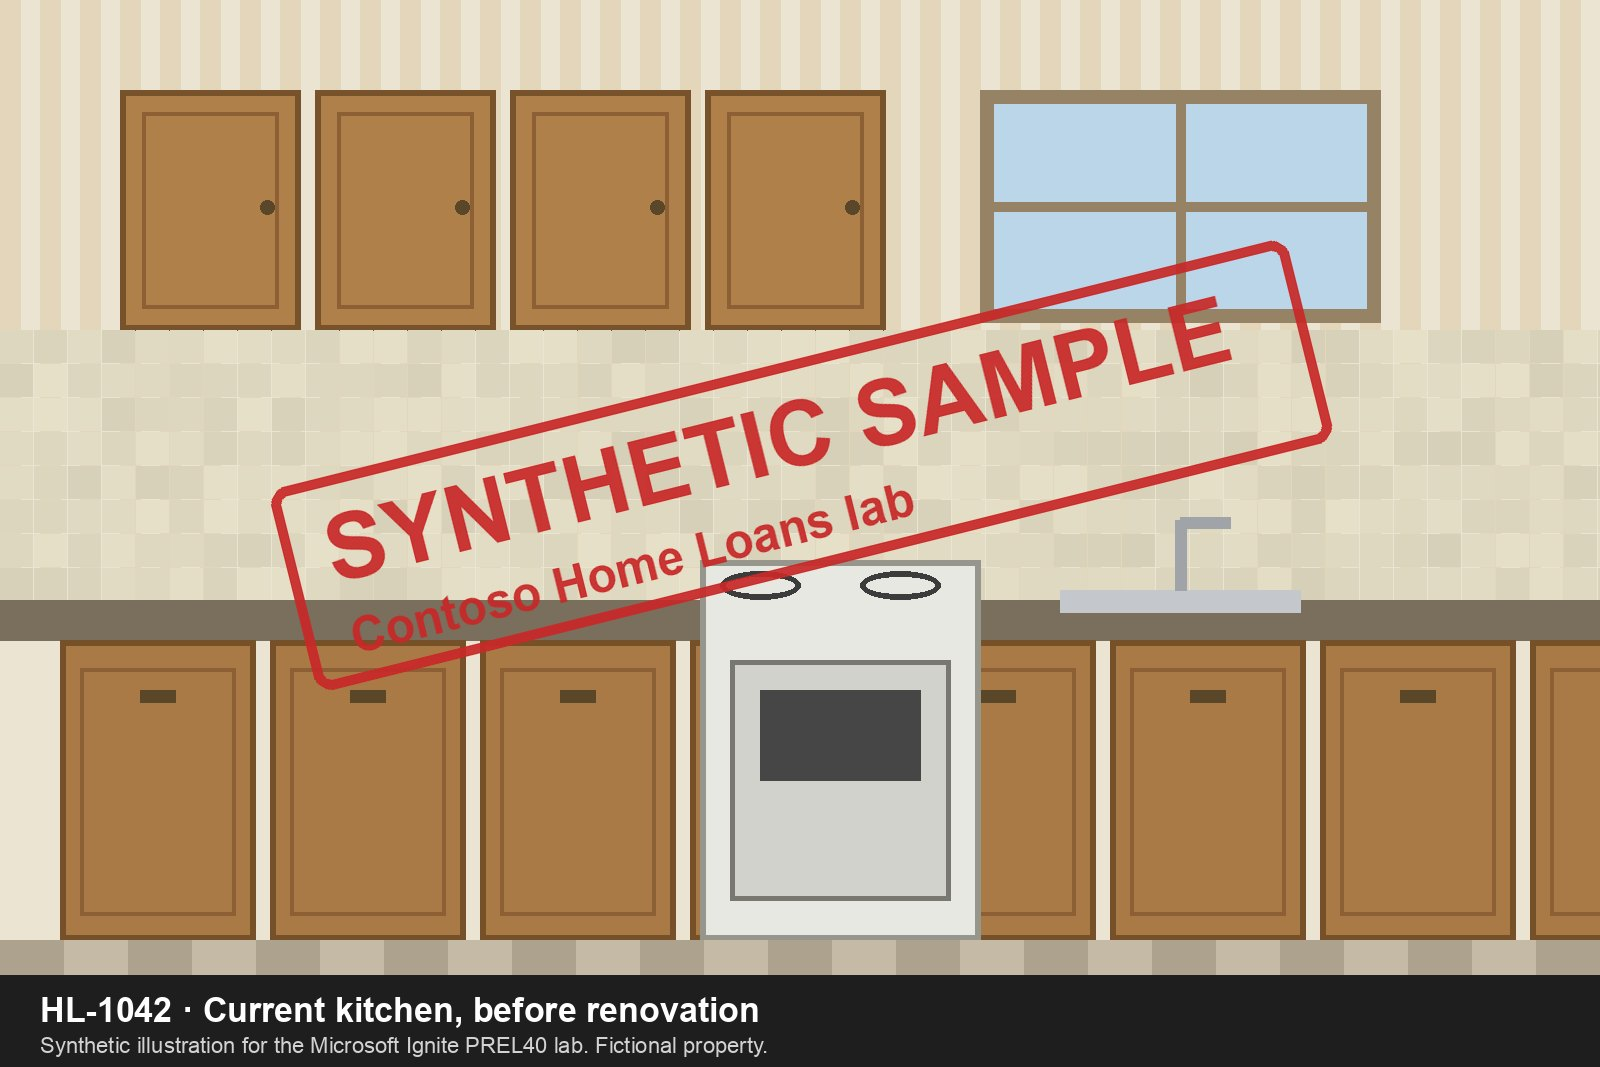
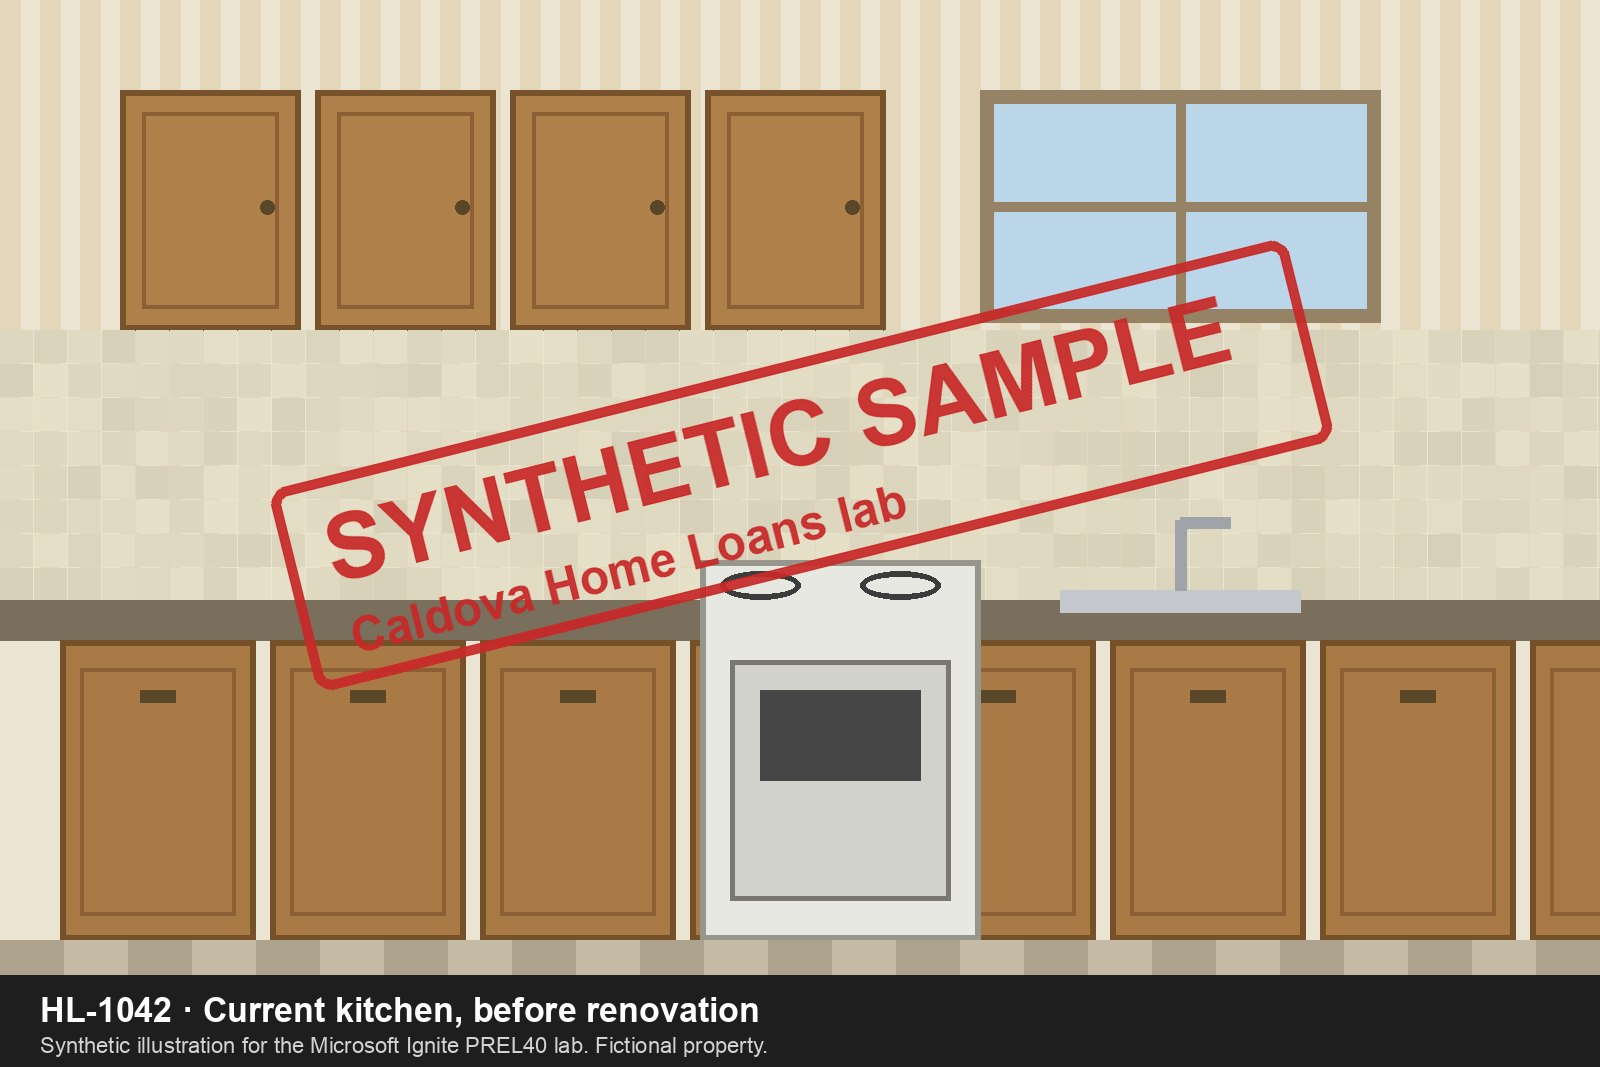
Rename fictional company from Contoso to Caldova Home Loans

Changed region(s): [[0.25, 0.4639, 0.5938, 0.6186]]

diff --git a/src/home-loan-desk/packages/frontend/src/pages/manager-page.tsx b/src/home-loan-desk/packages/frontend/src/pages/manager-page.tsx
@@ -40,7 +40,7 @@ export function ManagerPage() {
           Operations portfolio
         </h1>
         <p className="max-w-3xl text-300 text-muted-foreground">
-          Shared, pseudonymous pipeline metrics from the Contoso Home Loans semantic model, as of its
+          Shared, pseudonymous pipeline metrics from the Caldova Home Loans semantic model, as of its
           snapshot date. This page is a view for the signed-in officer, not a manager role: it never
           grants access to anyone's private case work.
         </p>

diff --git a/src/home-loan-desk/packages/frontend/src/components/app-shell.tsx b/src/home-loan-desk/packages/frontend/src/components/app-shell.tsx
@@ -29,7 +29,7 @@ export function AppShell({ children }: { children: ReactNode }) {
             </span>
             <span className="flex flex-col">
               <span className="text-200 font-semibold uppercase tracking-wider text-muted-foreground">
-                Contoso Home Loans
+                Caldova Home Loans
               </span>
               <span className="text-400 font-semibold text-foreground">Operations Desk</span>
             </span>

diff --git a/src/home-loan-desk/packages/frontend/src/App.spec.tsx b/src/home-loan-desk/packages/frontend/src/App.spec.tsx
@@ -5,7 +5,7 @@ import { afterEach, beforeEach, describe, expect, it, vi } from 'vitest';
 import { labFixtures } from '@/lab/fixtures.generated';
 import { planLabRecords, type LabStore } from '@/lab/seeder';
 
-const OFFICER = 'avery.officer@contoso.example';
+const OFFICER = 'avery.officer@caldova.example';
 // The gate check and the data load both resolve before content shows; allow for slow CI.
 const WAIT = { timeout: 5000 };
 

diff --git a/src/home-loan-desk/packages/frontend/src/lab/seeder.spec.ts b/src/home-loan-desk/packages/frontend/src/lab/seeder.spec.ts
@@ -12,7 +12,7 @@ import {
   type LabStore,
 } from './seeder';
 
-const OFFICER = 'avery.officer@contoso.example';
+const OFFICER = 'avery.officer@caldova.example';
 
 type Row = Record<string, unknown> & { id: string };
 

diff --git a/src/home-loan-desk/packages/shared/src/index.ts b/src/home-loan-desk/packages/shared/src/index.ts
@@ -70,7 +70,7 @@ export const FIELD_LIMITS = {
  */
 export const LAB_COLLEAGUE = {
   name: 'Morgan Lee',
-  email: 'morgan.lee@contoso.example',
+  email: 'morgan.lee@caldova.example',
 } as const;
 
 /**

diff --git a/data/generator/kitchen_illustration.py b/data/generator/kitchen_illustration.py
@@ -67,7 +67,7 @@ stamp = Image.new('RGBA', (1060, 220), (0, 0, 0, 0))
 sd = ImageDraw.Draw(stamp)
 sd.rounded_rectangle([6, 6, 1054, 214], radius=18, outline=(200, 40, 40, 235), width=10)
 sd.text((48, 28), "SYNTHETIC SAMPLE", font=font(92, True), fill=(200, 40, 40, 235))
-sd.text((52, 142), "Contoso Home Loans lab", font=font(48, True), fill=(200, 40, 40, 235))
+sd.text((52, 142), "Caldova Home Loans lab", font=font(48, True), fill=(200, 40, 40, 235))
 stamp = stamp.rotate(14, expand=True, resample=Image.BICUBIC)
 img.paste(stamp, (260, 230), stamp)
 out = sys.argv[1] if len(sys.argv) > 1 else str(Path(__file__).resolve().parents[1] / "samples" / "HL-1042-kitchen-current.jpg")

diff --git a/.prep/scenario.md b/.prep/scenario.md
@@ -7,7 +7,7 @@
 
 ## The story
 
-Contoso Home Loans has enough data to report on its application pipeline, but its staff still move between reports, shared folders, and case notes to get work done. The operations desk can see a backlog without knowing which administrative steps are holding it up. Loan officers have to reconstruct a case before handing it to a colleague.
+Caldova Home Loans has enough data to report on its application pipeline, but its staff still move between reports, shared folders, and case notes to get work done. The operations desk can see a backlog without knowing which administrative steps are holding it up. Loan officers have to reconstruct a case before handing it to a colleague.
 
 Attendees grow a working, secure Rayfin starter into **Home Loan Operations Desk**: an app that connects shared portfolio metrics from a semantic model to private case work, property photos, and an AI-assisted handoff brief.
 
@@ -32,7 +32,7 @@ Use the same cases throughout the lab instead of inventing new examples for each
 | --- | --- | --- |
 | **HL-1042: Alex Rivera** | Home-improvement loan of USD 85,000 for a kitchen renovation and rear extension. It has spent 11 calendar days in Document collection. Contractor quote and proof of income are Received; **Renovation plans / current-state photos** is Required. The case notes contain a planted contradiction: one note says the applicant emailed the plans on a given date, while a later note records that nothing arrived. Assigned to the attendee. | Find it in the stalled list, open it, upload the supplied plan and photo, see the checklist turn to Received, generate a brief that flags the contradiction, and save a human-reviewed task. |
 | **HL-1088: Jordan Chen** | Home-purchase application with every checklist item Received, waiting for Internal review. Assigned to the attendee. | Optional AI contrast: the brief must report no missing items and suggest the internal review, never an approval. A complete checklist isn't a lending decision. |
-| **HL-1103: Casey Brooks** | Stalled for 9 days in Document collection. Assigned to a fictional colleague, Morgan Lee (`morgan.lee@contoso.example`), who never signs in. | Access proof: the row exists in the app database, but the attendee can't retrieve it through the app or the API, even by ID. |
+| **HL-1103: Casey Brooks** | Stalled for 9 days in Document collection. Assigned to a fictional colleague, Morgan Lee (`morgan.lee@caldova.example`), who never signs in. | Access proof: the row exists in the app database, but the attendee can't retrieve it through the app or the API, even by ID. |
 
 The seed also creates **six more cases assigned to the attendee**, spread across stages and including two more stalled cases, so My Cases looks like a real workload.
 
@@ -94,7 +94,7 @@ Define measures, names, and format strings once, in the model. The app queries t
 
 **Part 1 path:**
 
-- The attendee creates the SQL database `ContosoHomeLoans` in their workspace from the Fabric portal.
+- The attendee creates the SQL database `CaldovaHomeLoans` in their workspace from the Fabric portal.
 - They run one committed script, `data/portfolio-seed.sql`, in the query editor. It creates the four tables and inserts the deterministic rows.
 - From the SQL database they choose **New semantic model**, which creates the default Direct Lake model over the SQL analytics endpoint.
 - In web modeling they create the three relationships, mark `Date` as the date table, and add the four measures from DAX snippets in the instructions.
@@ -235,7 +235,7 @@ The blocks total **225 minutes**, with **15 minutes** of margin in the four-hour
 | Minutes | Step |
 | --- | --- |
 | 15 | Copilot app and Rayfin plugin, `rayfin login`, scaffold from the pinned tag, and start `npm run rayfin:up`. The deploy runs while the attendee moves on. |
-| 15 | Create `ContosoHomeLoans`, run `data/portfolio-seed.sql`, and look at the OneLake/SQL analytics endpoint. |
+| 15 | Create `CaldovaHomeLoans`, run `data/portfolio-seed.sql`, and look at the OneLake/SQL analytics endpoint. |
 | 25 | New semantic model, relationships, date table, four measures, and reference values. |
 | 5 | Checkpoint: open the hosted app, watch **Preparing data**, and see My Cases. |
 
@@ -291,7 +291,7 @@ The CLI installs the version-matched Rayfin skill and MCP configuration and pres
 ```text
 Build the PREL40 starter template, "Home Loan Operations Desk", in
 src/home-loan-desk, using .prep/scenario.md as the contract. It is an internal
-app for loan officers at the fictional Contoso Home Loans that assists
+app for loan officers at the fictional Caldova Home Loans that assists
 administrative case processing, not lending decisions.
 
 Start from the Rayfin universal-app template and apply the data-modeling,
@@ -321,7 +321,7 @@ Build a working, secure, deliberately incomplete starter:
   behind a "Preparing data" progress screen, and #/seed with a non-destructive
   Restore and a confirmed "Reset my lab cases". Deterministic UUIDs; treat a
   primary-key conflict as already present. Seed the attendee's eight cases and
-  HL-1103 for morgan.lee@contoso.example. Never mark HL-1042's photos/plans item
+  HL-1103 for morgan.lee@caldova.example. Never mark HL-1042's photos/plans item
   Received.
 
 Also build data/generator (fixed seed, stable UUIDs, explicit as-of date in a

diff --git a/docs/instructions/00-intro.md b/docs/instructions/00-intro.md
@@ -16,7 +16,7 @@ In the virtual machine, sign into Windows using the following credentials:
 
 This lab demonstrates how to build a data-rich internal application with Microsoft Fabric, the Rayfin SDK, and the GitHub Copilot app. You'll combine consistent portfolio metrics from a Fabric semantic model with secure operational data and application behavior managed by Rayfin.
 
-The scenario centers on **Contoso Home Loans**. Its operations staff can see the loan application backlog, but they still move between reports, shared folders, and case notes to understand why an application is stalled and what administrative work should happen next. You'll grow a secure starter into **Home Loan Operations Desk**, an app that helps a loan officer:
+The scenario centers on **Caldova Home Loans**. Its operations staff can see the loan application backlog, but they still move between reports, shared folders, and case notes to understand why an application is stalled and what administrative work should happen next. You'll grow a secure starter into **Home Loan Operations Desk**, an app that helps a loan officer:
 
 - Review shared portfolio metrics and identify stalled applications
 - Work with private case notes, tasks, and document checklists
@@ -33,7 +33,7 @@ Through the exercises, you'll:
 - Use a server function, secrets, and a model in Microsoft Foundry to create a validated handoff brief
 - Review the deployed app's operational metrics in Microsoft Fabric
 
-You'll walk in the shoes of a loan officer at Contoso Home Loans who is responsible for keeping applications moving. You'll use portfolio insights to find stalled cases, secure case tools to gather missing information, and an AI-assisted handoff brief to prepare the next administrative action for human review.
+You'll walk in the shoes of a loan officer at Caldova Home Loans who is responsible for keeping applications moving. You'll use portfolio insights to find stalled cases, secure case tools to gather missing information, and an AI-assisted handoff brief to prepare the next administrative action for human review.
 
 Complete the exercises in order because each one builds on the app, data model, deployment, and resources created in the previous exercises.
 

diff --git a/docs/instructions/02-create-sql-database.md b/docs/instructions/02-create-sql-database.md
@@ -1,6 +1,6 @@
 # Exercise 2: Create and seed the portfolio database
 
-Contoso Home Loans keeps a snapshot of its loan application pipeline in a SQL database. In this exercise, you create that database in Microsoft Fabric, load 200 synthetic loan applications into it, and run a test query to confirm the data is ready for the semantic model.
+Caldova Home Loans keeps a snapshot of its loan application pipeline in a SQL database. In this exercise, you create that database in Microsoft Fabric, load 200 synthetic loan applications into it, and run a test query to confirm the data is ready for the semantic model.
 
 By completing this exercise, you will:
 
@@ -17,7 +17,7 @@ Create an empty SQL database to hold the portfolio data.
 
 1. In the workspace, select **+ New item**, enter `SQL database` in the search box, then select **SQL database**.
 
-1. Name the database `ContosoHomeLoans`, then select **Create**.
+1. Name the database `CaldovaHomeLoans`, then select **Create**.
 
 1. Wait for the database to be provisioned. When it's ready, the database home page opens with the **Explorer** pane on the left.
 
@@ -34,7 +34,7 @@ Run the seed script to create the four portfolio tables and fill them with data.
     > [!NOTE]
     > The script creates the **Branch**, **LoanProduct**, **Date**, and **LoanApplication** tables. If they already exist, it drops and re-creates them, so it's safe to run again. All branches, amounts, and applications are synthetic.
 
-1. Return to the **ContosoHomeLoans** database in Microsoft Edge and select **New SQL query** in the toolbar.
+1. Return to the **CaldovaHomeLoans** database in Microsoft Edge and select **New SQL query** in the toolbar.
 
 1. Select the query editor, then press **Ctrl+V** to paste the script.
 

diff --git a/src/home-loan-desk/AGENTS.md b/src/home-loan-desk/AGENTS.md
@@ -8,7 +8,7 @@ Turn on only the capabilities the app needs, preserve the protected default and 
 ## PREL40 lab context: read this first
 
 This project is the **Home Loan Operations Desk** lab starter for Microsoft Ignite 2026 PREL40.
-It is an internal app for loan officers at the fictional Contoso Home Loans, built for administrative case processing.
+It is an internal app for loan officers at the fictional Caldova Home Loans, built for administrative case processing.
 It never assesses creditworthiness, recommends approval or rejection, or makes a lending decision.
 All data is synthetic.
 
@@ -41,7 +41,7 @@ Every entity is scoped by the signed-in officer's **email claim**:
 
 - `CaseWorkspace`: create when `created_by_email` is the caller (intake); read, update, and delete only when the stored `assigned_officer_email` is the caller; update can't change `created_by_email`.
 - `CaseNote`, `CaseTask`, `ChecklistItem`: every action only when the stored `officer_email` is the caller; update can't change `case_id` (or a checklist item's `category`).
-- HL-1103 belongs to `morgan.lee@contoso.example`, who never signs in. Attendees must not be able to read it, through the app or the API.
+- HL-1103 belongs to `morgan.lee@caldova.example`, who never signs in. Attendees must not be able to read it, through the app or the API.
 
 Never weaken a rule, add a client-side filter in place of a rule, or broaden access to make something work.
 Give every new entity or storage folder an explicit `@authenticated` rule scoped the same way, and stamp records from the session email (`useOfficerEmail`).

diff --git a/data/README.md b/data/README.md
@@ -4,7 +4,7 @@ Synthetic data for the PREL40 lab. All applicants, branches, amounts, and docume
 
 | Path | What it is |
 | --- | --- |
-| [`portfolio-seed.sql`](portfolio-seed.sql) | Creates and fills the `ContosoHomeLoans` SQL database in Fabric: `LoanApplication`, `Branch`, `LoanProduct`, and `Date`. Run the whole script in the database's query editor. It's safe to run again. |
+| [`portfolio-seed.sql`](portfolio-seed.sql) | Creates and fills the `CaldovaHomeLoans` SQL database in Fabric: `LoanApplication`, `Branch`, `LoanProduct`, and `Date`. Run the whole script in the database's query editor. It's safe to run again. |
 | [`samples/`](samples/) | Files for HL-1042's missing checklist item, uploaded during the storage step: a floor plan (PDF) and a current-state kitchen image (JPEG). |
 | [`generator/`](generator/) | The scripts that produce the files above and the app's lab fixtures. Attendees never run them. |
 

diff --git a/src/home-loan-desk/README.md b/src/home-loan-desk/README.md
@@ -2,7 +2,7 @@
 
 The lab starter for **PREL40: Build data-rich apps in Microsoft Fabric** (Microsoft Ignite 2026).
 
-Home Loan Operations Desk is an internal Fabric App for loan officers at the fictional Contoso Home Loans. It connects shared portfolio metrics to private case work. This starter is a working, secure app that you extend during the lab with the GitHub Copilot app and the Rayfin plugin.
+Home Loan Operations Desk is an internal Fabric App for loan officers at the fictional Caldova Home Loans. It connects shared portfolio metrics to private case work. This starter is a working, secure app that you extend during the lab with the GitHub Copilot app and the Rayfin plugin.
 
 > All applicants, amounts, and documents are synthetic. The app supports administrative case processing only: it doesn't assess creditworthiness, recommend approval or rejection, or make lending decisions.
 
